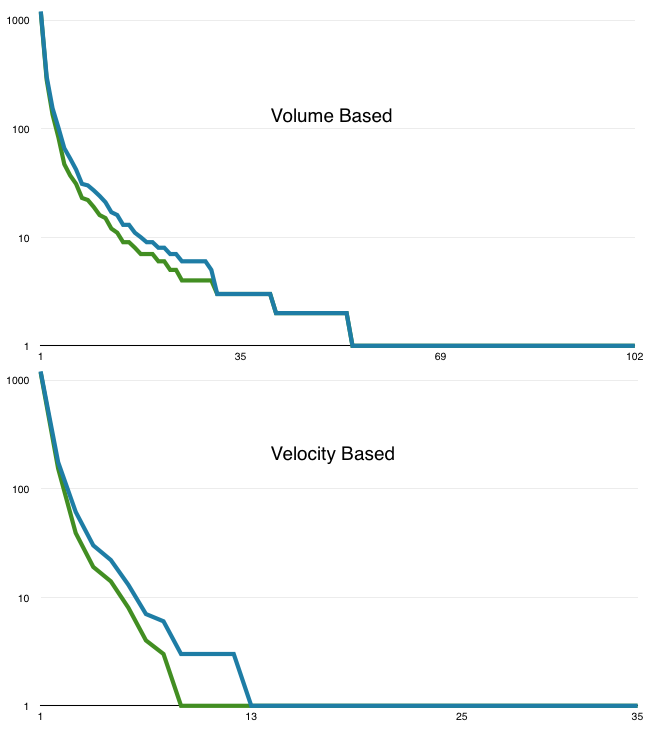
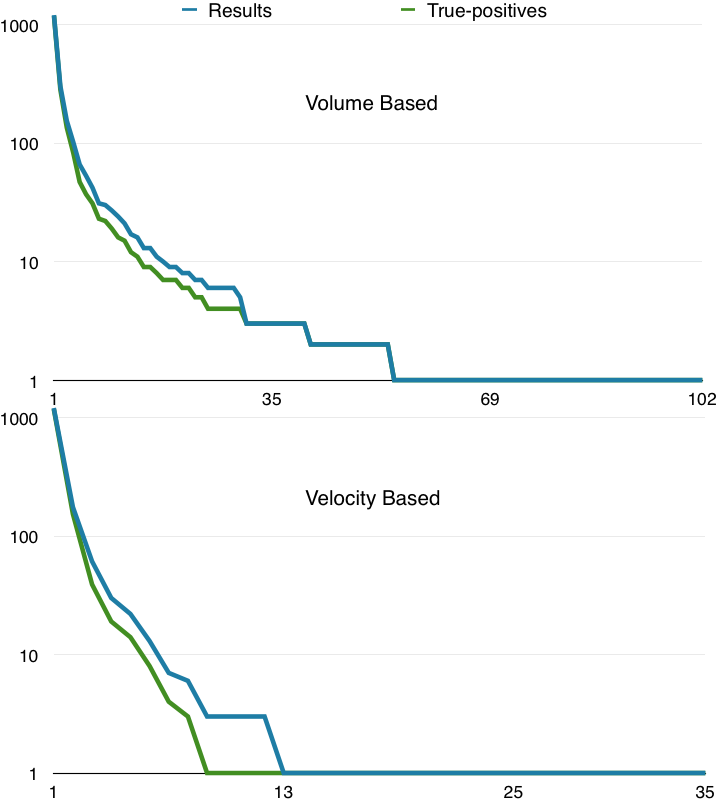
Plots criticized by review 3 made clearer

diff --git a/seen.tex b/seen.tex
@@ -300,7 +300,7 @@ Figure~\ref{fig:tcdisrupt_plots} also indicates that our method is efficient in 
 \begin{figure}[htbp]
   \centering
   \includegraphics[width=8cm]{Figures/batkid_plot.png}
-  \caption{Number of results and number of true-positive results obtained using the volume-based LSP and the velocity-based LSP for the SFBatkid event while increasing the filtering thresholds}
+  \caption{Number of results and number of true-positive results obtained using the velocity-based LSP for the SFBatkid event while increasing the filtering thresholds}
   \label{fig:sfbatkid_plot}
 \end{figure}
 
